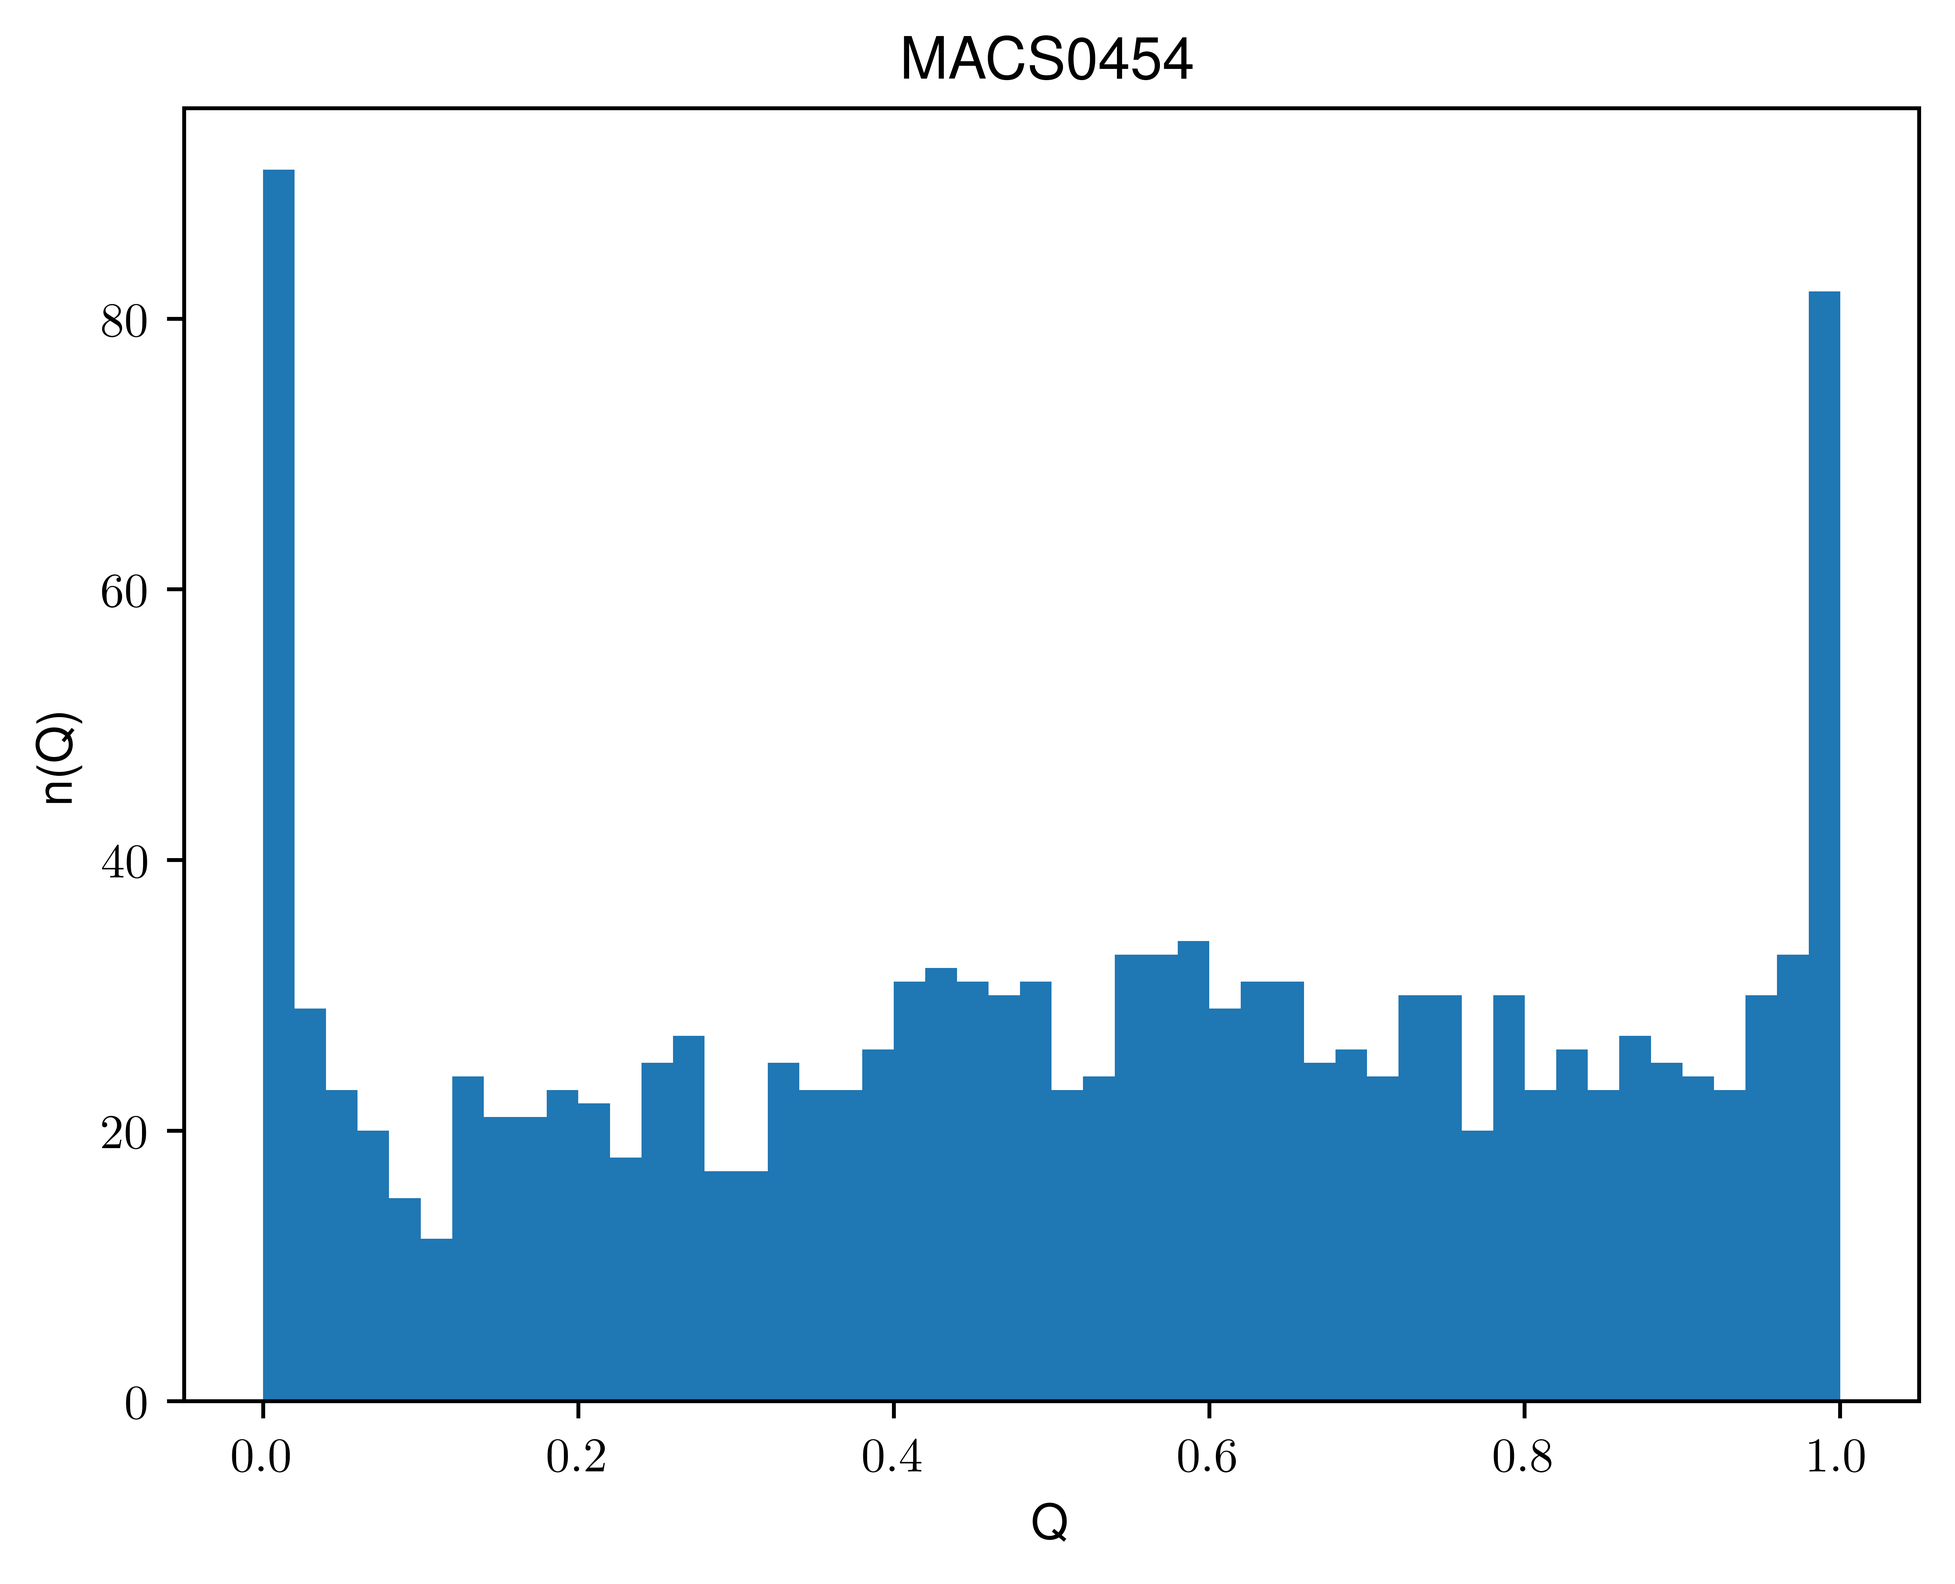
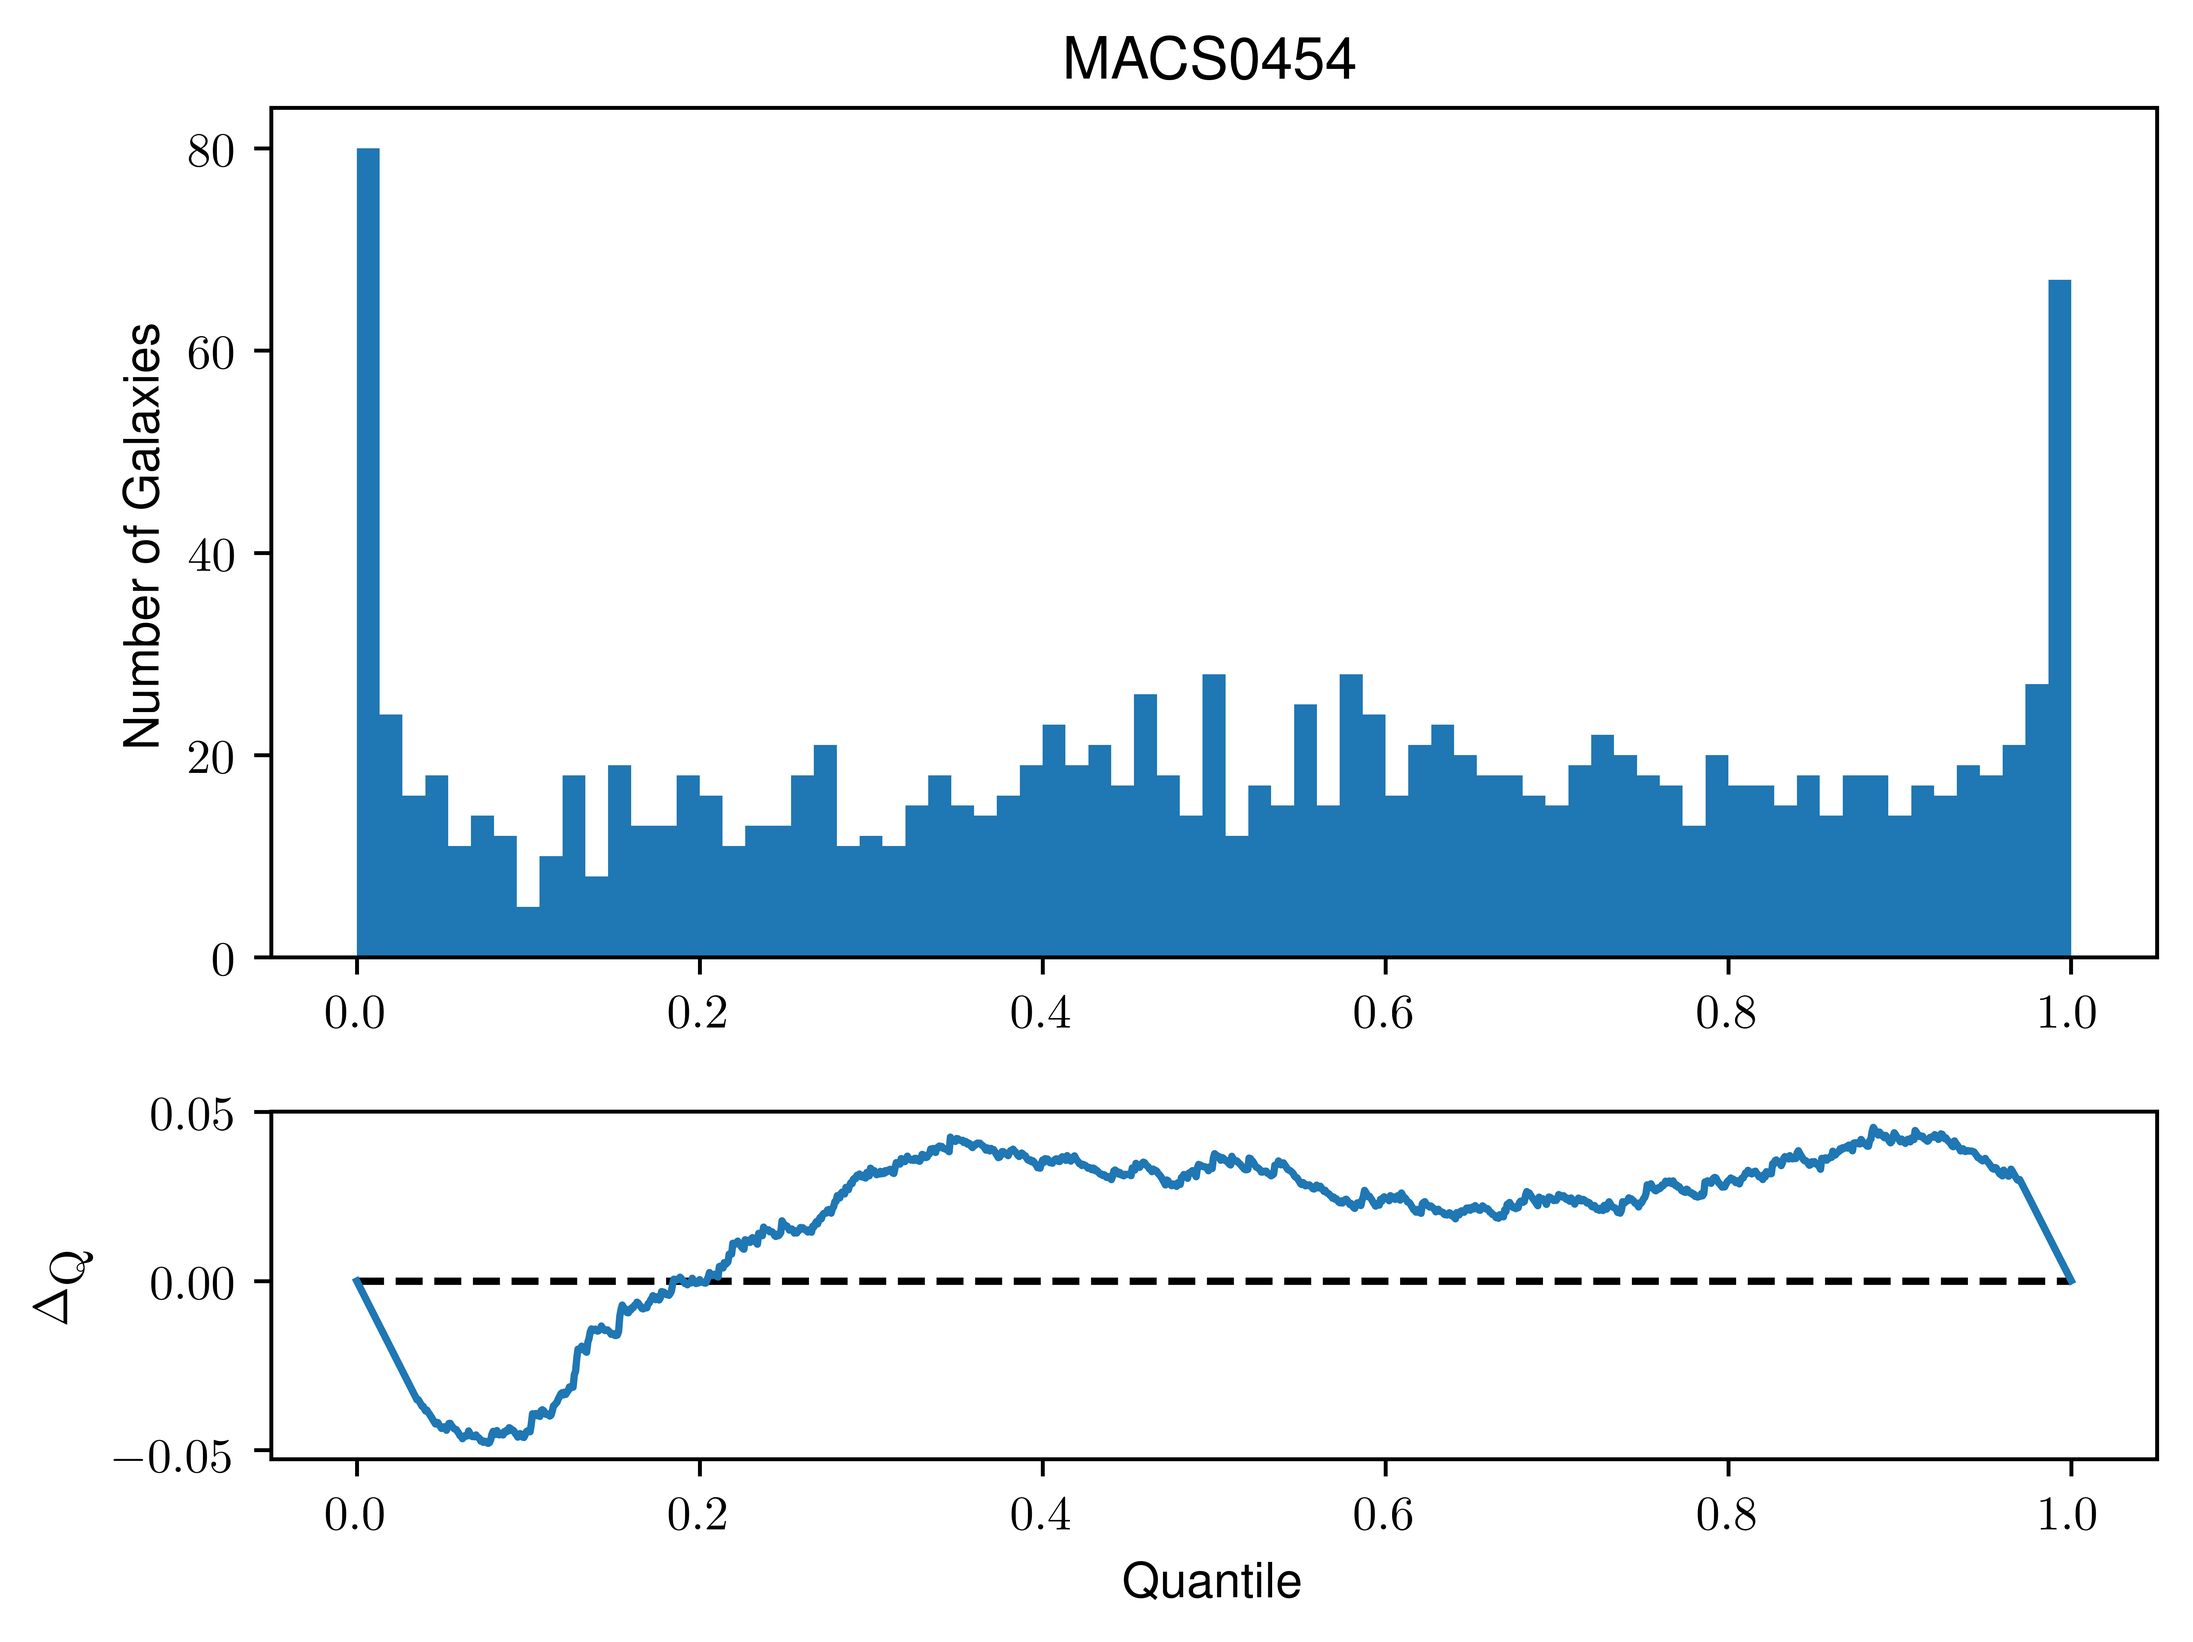
QQ PIT subplot

diff --git a/scripts/QQplot.py b/scripts/QQplot.py
@@ -6,6 +6,7 @@ QQ Plot
 import numpy as np
 import matplotlib
 import matplotlib.pyplot as plt
+import matplotlib.gridspec as gridspec
 from astropy.io import fits
 from scipy import stats
 from scipy.stats import norm
@@ -18,8 +19,8 @@ rc('text', usetex=True)
 
 #-------------------------------------------------------------------------------
 
-cat1 = False
-cat2 = True
+cat1 = True
+cat2 = False
 
 # Data Directories
 # Topcat match MUST have WtG as first catalog!!
@@ -81,6 +82,7 @@ for i in range(0,len(data)):
     q = QuanVal(z,pdz,specZ,step)
     quant.append(q)
     # plot P(z) for random objects
+    
     if np.isin(i,plotNums):
         SeqNr = data[i][2] # SeqNr_1, 3
         Rmag = data[i][650] # MAG_AUTO-SUBARU-COADD-1-W-C-RC, 651
@@ -96,19 +98,36 @@ for i in range(0,len(data)):
             format='png',dpi=1000,bbox_inches='tight')
     else:
         continue
+    
 
 
-# QQ plot
-nbins = 50
+# PIT/QQ residuals Plot
+nbins = 75
+Qdata = np.sort(quant)
+Qtheory = np.linspace(0.0,1.0,len(quant))
+delQ = Qdata - Qtheory
 
 plt.figure()
-plt.title(r'MACS0454')
-plt.ylabel('n(Q)')
-plt.xlabel('Q')
+gridspec.GridSpec(3,2)
+
+plt.subplot2grid((3,2), (0,0), colspan=2, rowspan=2)
+plt.title('MACS0454')
+#plt.xlabel('PIT Value')
+plt.ylabel('Number of Galaxies')
 plt.hist(quant,bins=nbins)
-    
+
+plt.subplot2grid((3,2), (2,0), colspan=2, rowspan=1)
+plt.xlabel(r'Quantile')
+plt.ylabel(r'$\Delta_{\textrm{Q}}$')
+plt.hlines(0.0,0.0,1.0,linestyles='--')
+plt.plot(Qtheory,delQ)
+
+plt.tight_layout()
 if save:
-    plt.savefig(figpwd+'QQplot_{}.png'.format(tag),format='png',dpi=1000,bbox_inches='tight')
+    plt.savefig(figpwd+'QQplot_{}.png'.format(tag),\
+    format='png',dpi=1000,bbox_inches='tight')
+
+
 if show:
     plt.show()
 plt.clf()
